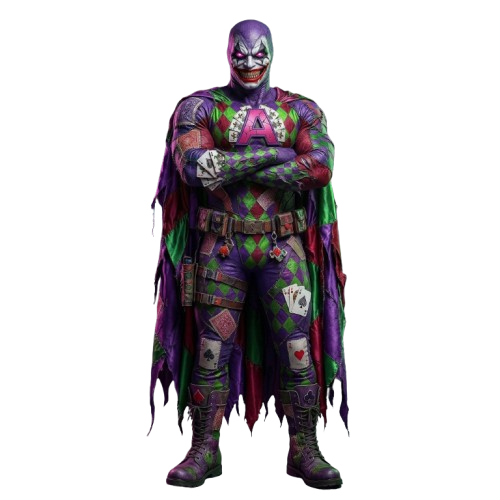
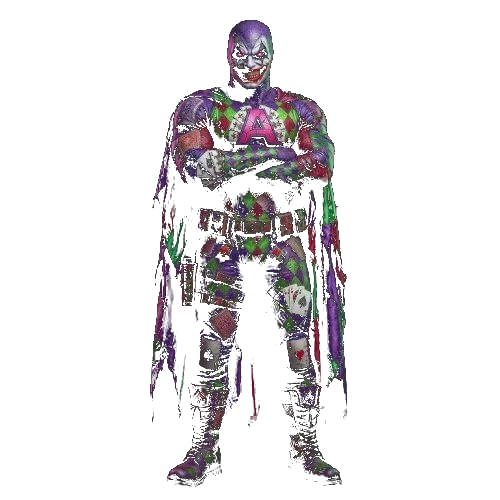
fix: ajout mascotte Fun dans les cards pronos
- claude-config.php: ajouté règle mascotte Fun (mascotte-fun-nobg.png)
  pour tous les bets de type Fun, quel que soit le sport
- mascotte-fun-nobg.png: mise à jour avec le nouveau design (fond transparent)
- Ordre de priorité: Fun > Tennis > MLB > Sport générique

Changed region(s): [[0.3, 0.06, 0.72, 0.99], [0.51, 0.03, 0.54, 0.06]]

diff --git a/public_html/includes/claude-config.php b/public_html/includes/claude-config.php
@@ -238,8 +238,9 @@ Logos clubs/joueurs — ⚠ IMPORTANT : ajouter les logos à côté des noms 
 Mascotte WATERMARK — ⚠⚠ OBLIGATOIRE POUR TOUS LES SPORTS (y compris baseball, football, basket, hockey), doit occuper toute la hauteur de la card en arrière-plan transparent :
 HTML EXACT pour la mascotte (à placer IMMÉDIATEMENT après l'ouverture de la div principale de la card, AVANT tout contenu) :
 - TENNIS : <img src='https://stratedgepronos.fr/assets/images/mascotte-tennis.png' style='position:absolute;left:50%;top:0;transform:translateX(-50%);height:100%;width:auto;object-fit:contain;pointer-events:none;opacity:0.45;z-index:1'>
-- FOOTBALL / BASKET / HOCKEY et tout autre sport : <img src='https://stratedgepronos.fr/assets/images/mascotte.png' style='position:absolute;left:50%;top:0;transform:translateX(-50%);height:100%;width:auto;object-fit:contain;pointer-events:none;opacity:0.45;z-index:1'>
+- FOOTBALL / BASKET / HOCKEY et tout autre sport SAFE/LIVE : <img src='https://stratedgepronos.fr/assets/images/mascotte.png' style='position:absolute;left:50%;top:0;transform:translateX(-50%);height:100%;width:auto;object-fit:contain;pointer-events:none;opacity:0.45;z-index:1'>
 - BASEBALL (MLB) : <img src='https://stratedgepronos.fr/assets/images/mascotte-mlb.png' style='position:absolute;left:50%;top:0;transform:translateX(-50%);height:100%;width:auto;object-fit:contain;pointer-events:none;opacity:0.45;z-index:1'>
+- FUN (tous les bets de type Fun, quel que soit le sport) : <img src='https://stratedgepronos.fr/assets/images/mascotte-fun-nobg.png' style='position:absolute;left:50%;top:0;transform:translateX(-50%);height:100%;width:auto;object-fit:contain;pointer-events:none;opacity:0.45;z-index:1'>
 - Card locked : même chose mais opacity:0.25
 ⚠ NE JAMAIS OUBLIER la mascotte ! La div principale DOIT avoir position:relative et le contenu z-index:2. mascotte.png = pleine hauteur, transparente derrière le texte. Si tu oublies la mascotte, la card sera rejetée.
 
